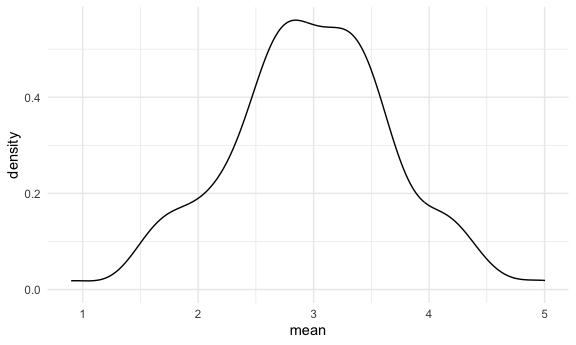
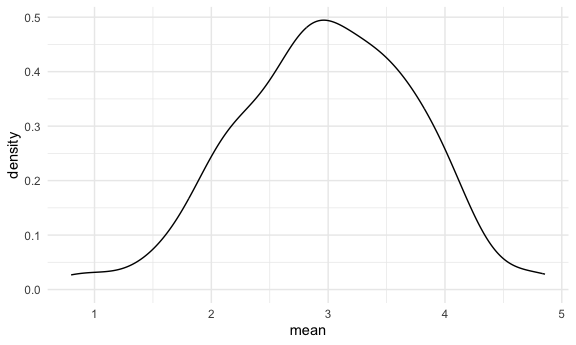
we did simulations!!!

diff --git a/simulations.md b/simulations.md
@@ -29,7 +29,7 @@ sim_mean_sd(30)
     ## # A tibble: 1 × 2
     ##    mean    sd
     ##   <dbl> <dbl>
-    ## 1  3.68  3.52
+    ## 1  3.33  3.70
 
 ## Let’s simulate a lot
 
@@ -50,16 +50,16 @@ bind_rows(output)
     ## # A tibble: 100 × 2
     ##     mean    sd
     ##    <dbl> <dbl>
-    ##  1  2.93  2.99
-    ##  2  2.76  4.30
-    ##  3  2.00  3.54
-    ##  4  3.81  3.32
-    ##  5  3.56  4.45
-    ##  6  3.77  3.98
-    ##  7  3.37  5.18
-    ##  8  2.31  4.22
-    ##  9  3.44  3.79
-    ## 10  2.33  4.13
+    ##  1  3.53  3.18
+    ##  2  3.44  3.84
+    ##  3  3.45  3.53
+    ##  4  1.68  3.69
+    ##  5  3.95  4.22
+    ##  6  3.27  4.34
+    ##  7  2.05  4.05
+    ##  8  3.10  3.72
+    ##  9  3.55  4.11
+    ## 10  3.87  3.79
     ## # ℹ 90 more rows
 
 Let’s use a loop function.
@@ -90,7 +90,7 @@ sim_results %>%
     ## # A tibble: 1 × 2
     ##   avg_samp_mean sd_samp_mean
     ##           <dbl>        <dbl>
-    ## 1          2.97        0.717
+    ## 1          2.98        0.756
 
 ``` r
 sim_results %>% 
@@ -98,3 +98,73 @@ sim_results %>%
 ```
 
 <img src="simulations_files/figure-gfm/unnamed-chunk-5-2.png" alt="" width="90%" />
+
+## Let’s try other sample sizes
+
+``` r
+n_list = 
+  list(
+    "n = 30" = 30,
+    "n = 60" = 60,
+    "n = 120" = 120,
+    "n = 240" = 240
+  )
+
+output = vector("list", length = 4)
+
+output[[1]] = rerun(100, sim_mean_sd((sample_size = n_list[[1]]))) %>% 
+  bind_rows()
+output[[2]] = rerun(100, sim_mean_sd((sample_size = n_list[[2]]))) %>% 
+  bind_rows()
+
+for(i in 1:4) {
+  
+  output[[i]] = rerun(100, sim_mean_sd((sample_size = n_list[[i]]))) %>% 
+    bind_rows()
+  
+}
+```
+
+``` r
+sim_results = 
+  tibble(
+  sample_size = c(30, 60, 120, 240)
+) %>% 
+  mutate(
+    output_lists = map(.x = sample_size, ~rerun(1000, sim_mean_sd(.x))),
+    estimate_df = map(output_lists, bind_rows)
+  ) %>% 
+  select(-output_lists) %>% 
+  unnest(estimate_df)
+```
+
+Do some data frame things.
+
+``` r
+sim_results %>% 
+  mutate(
+    sample_size = str_c("n = ", sample_size),
+    sample_size = fct_inorder(sample_size)
+  ) %>% 
+  ggplot(aes(x = sample_size, y = mean)) +
+  geom_violin()
+```
+
+<img src="simulations_files/figure-gfm/unnamed-chunk-8-1.png" alt="" width="90%" />
+
+``` r
+sim_results %>% 
+  group_by(sample_size) %>% 
+  summarize(
+    avg_samp_mean = mean(mean),
+    sd_samp_mean = sd(mean)
+  )
+```
+
+    ## # A tibble: 4 × 3
+    ##   sample_size avg_samp_mean sd_samp_mean
+    ##         <dbl>         <dbl>        <dbl>
+    ## 1          30          3.00        0.703
+    ## 2          60          3.02        0.523
+    ## 3         120          3.00        0.377
+    ## 4         240          3.00        0.261
